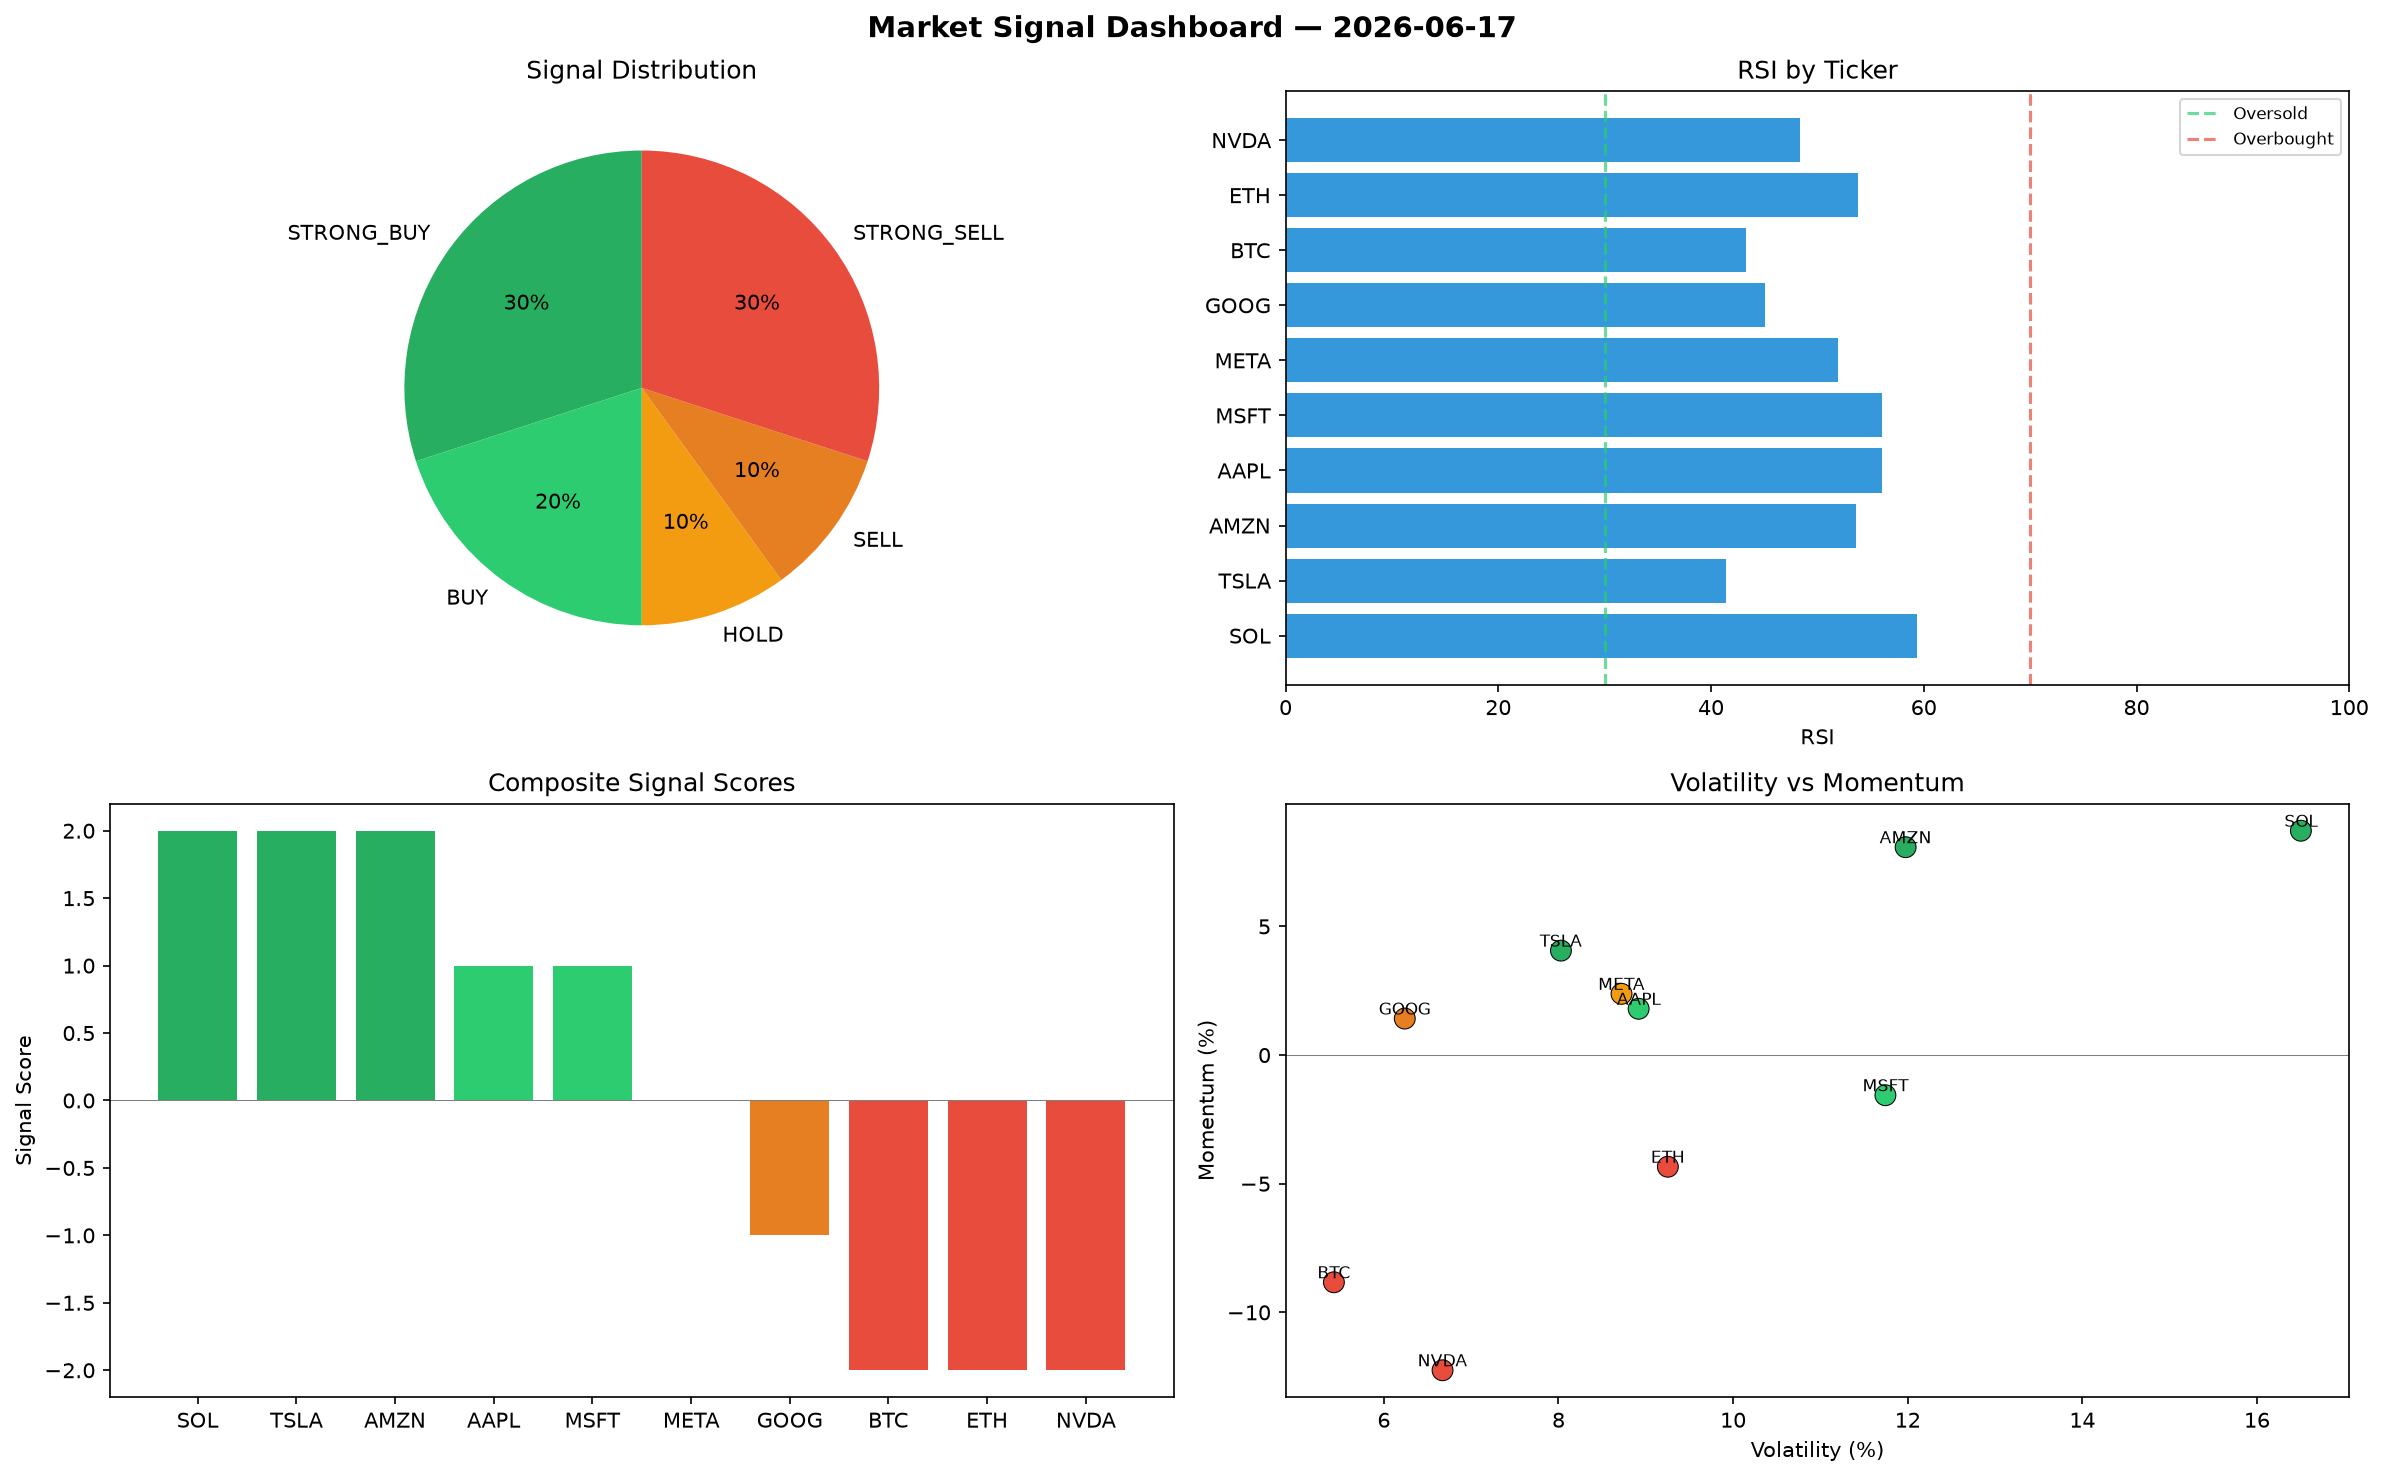
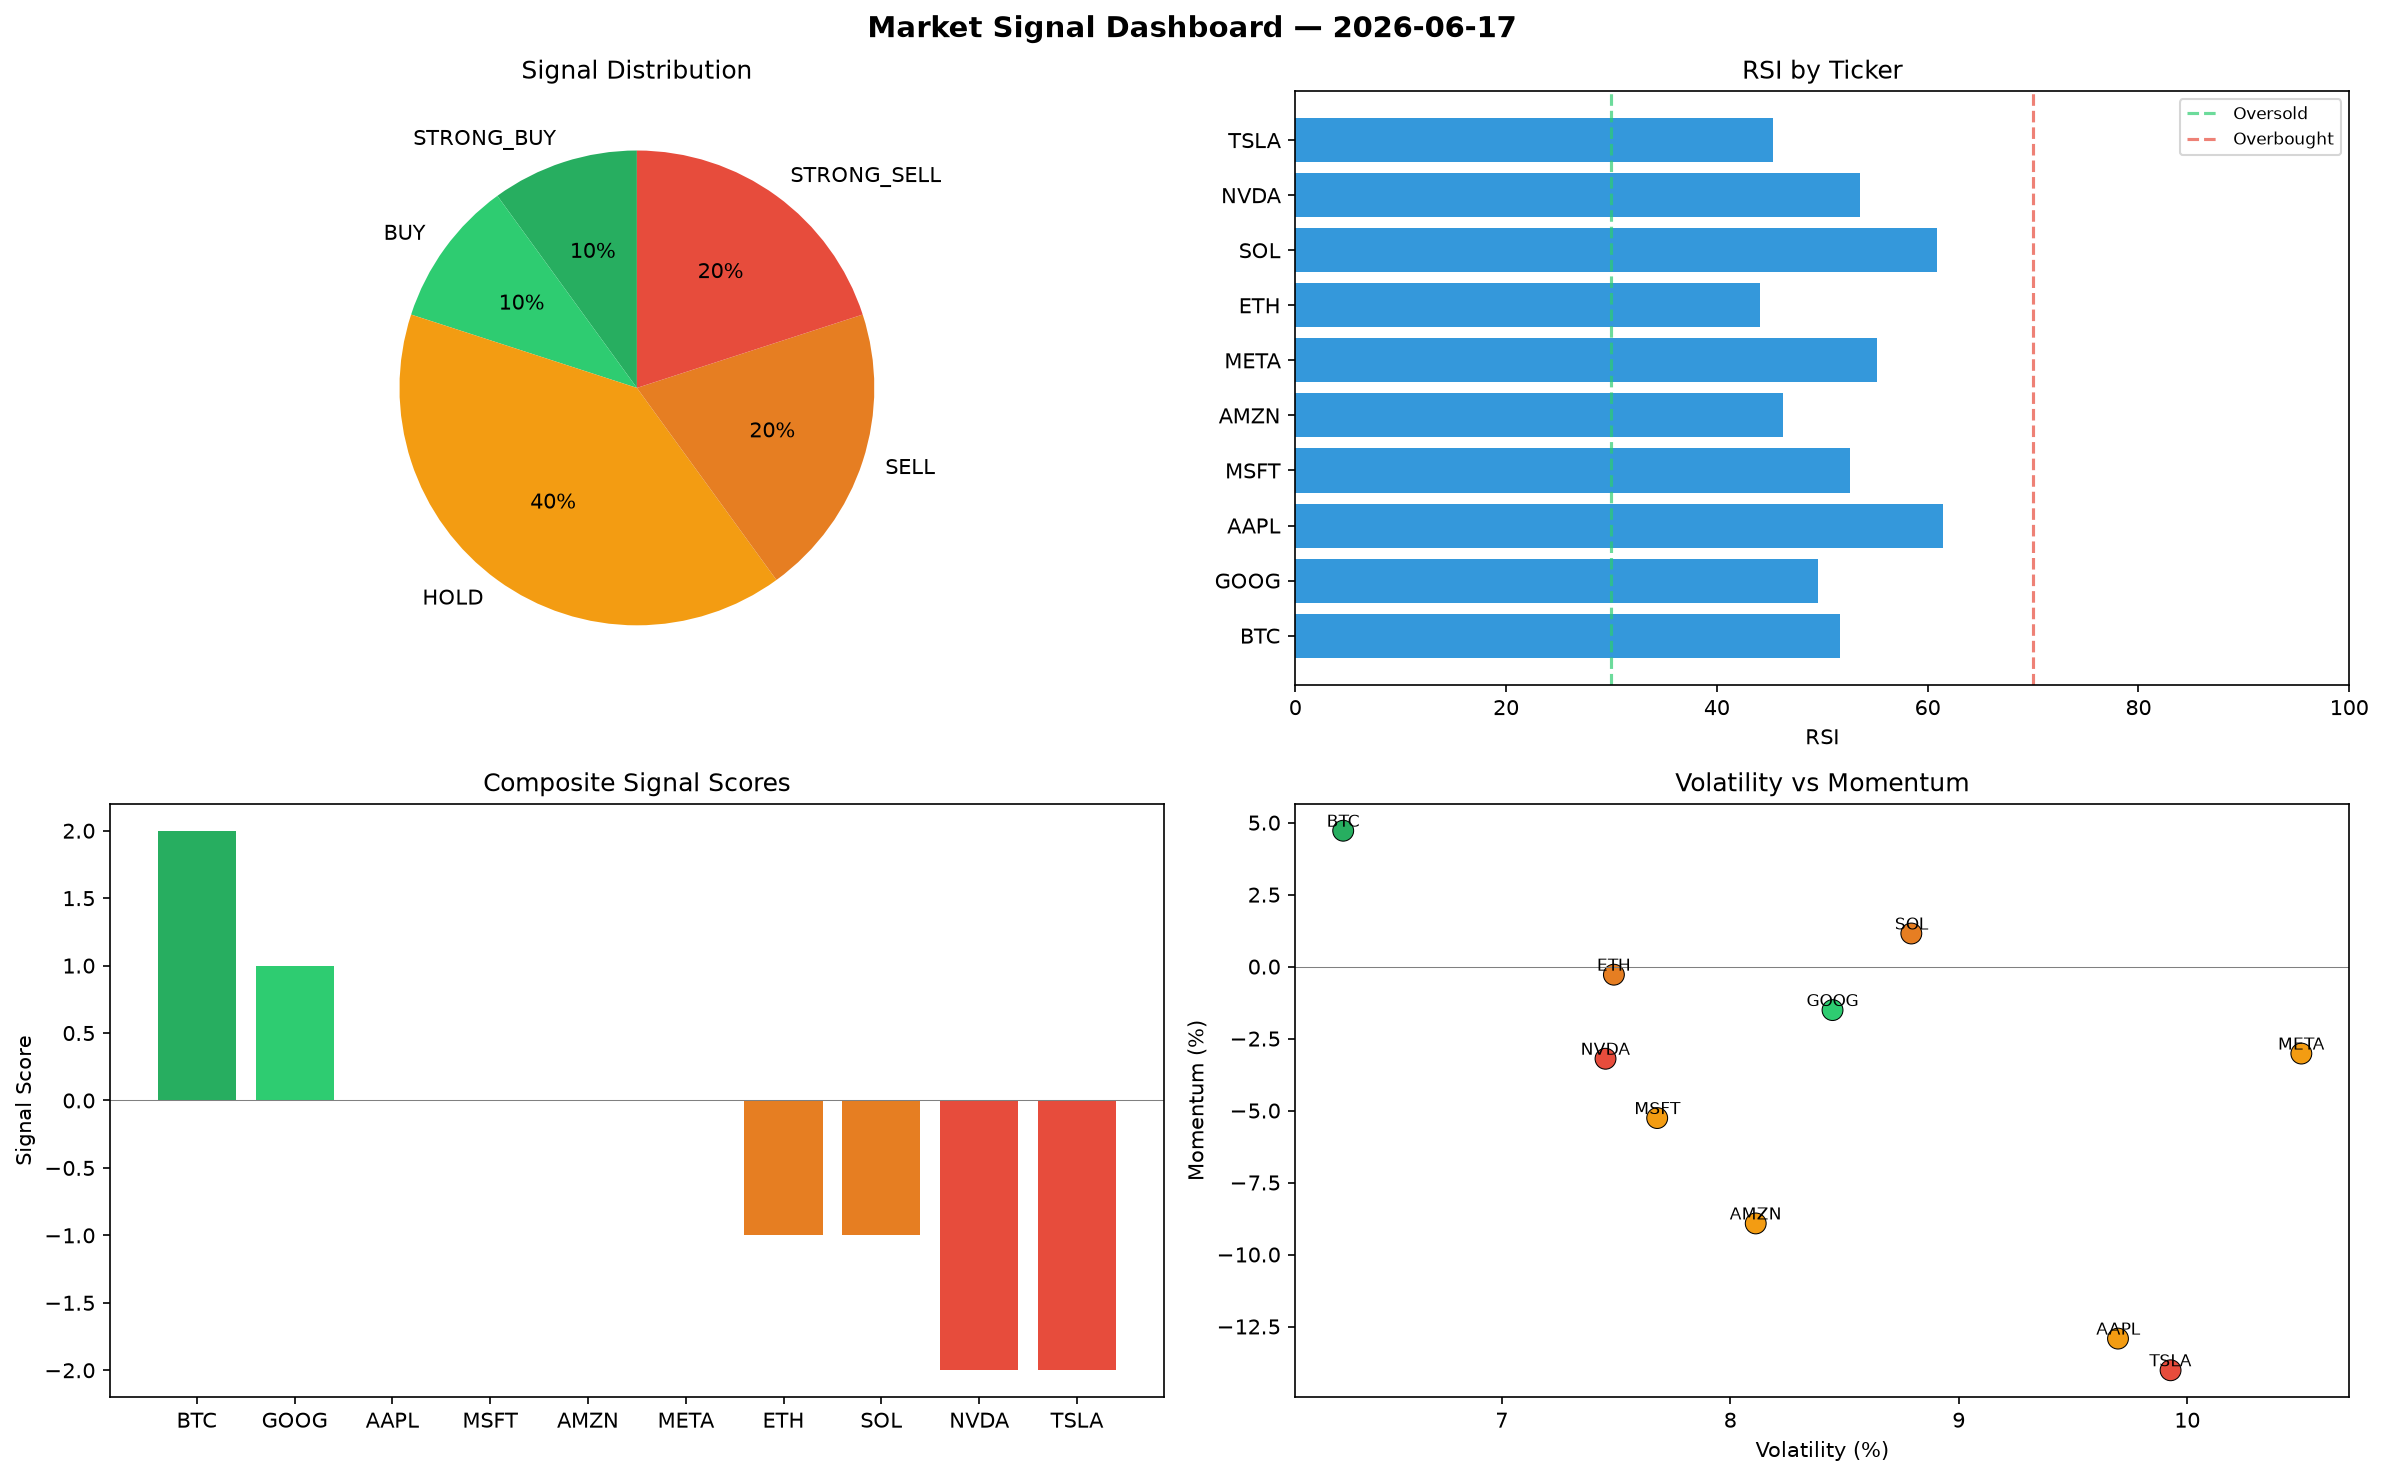
automated-bots: market signals 2026-06-17T22:17

diff --git a/logs/2026-06-17.md b/logs/2026-06-17.md
@@ -1,6 +1,6 @@
 # Market Signal Report — 2026-06-17
 
-**Run ID:** `86b16235c4` | **Buy:** 5 | **Sell:** 4 | **Hold:** 1
+**Run ID:** `54d045c7f7` | **Buy:** 2 | **Sell:** 4 | **Hold:** 4
 
 ![Dashboard](2026-06-17_dashboard.png)
 
@@ -8,28 +8,28 @@
 
 | Ticker | Price | Signal | Score | RSI | Momentum | Confidence |
 |--------|-------|--------|-------|-----|----------|------------|
-| SOL | $5332.72 | **STRONG_BUY** | 2 | 59.32 | 0.0872 | 0.5 |
-| TSLA | $2506.14 | **STRONG_BUY** | 2 | 41.39 | 0.0406 | 0.5 |
-| AMZN | $4673.76 | **STRONG_BUY** | 2 | 53.61 | 0.0808 | 0.5 |
-| AAPL | $3064.97 | **BUY** | 1 | 56.09 | 0.018 | 0.25 |
-| MSFT | $2948.56 | **BUY** | 1 | 56.03 | -0.0156 | 0.25 |
-| META | $4344.21 | **HOLD** | 0 | 51.93 | 0.0238 | 0.0 |
-| GOOG | $3228.26 | **SELL** | -1 | 45.03 | 0.0142 | 0.25 |
-| BTC | $2072.45 | **STRONG_SELL** | -2 | 43.25 | -0.0883 | 0.5 |
-| ETH | $848.21 | **STRONG_SELL** | -2 | 53.84 | -0.0434 | 0.5 |
-| NVDA | $2311.47 | **STRONG_SELL** | -2 | 48.33 | -0.1225 | 0.5 |
+| BTC | $1863.63 | **STRONG_BUY** | 2 | 51.7 | 0.0472 | 0.5 |
+| GOOG | $1218.36 | **BUY** | 1 | 49.64 | -0.0151 | 0.25 |
+| AAPL | $3975.64 | **HOLD** | 0 | 61.42 | -0.1292 | 0.0 |
+| MSFT | $1900.01 | **HOLD** | 0 | 52.65 | -0.0526 | 0.0 |
+| AMZN | $1113.38 | **HOLD** | 0 | 46.29 | -0.0892 | 0.0 |
+| META | $2248.81 | **HOLD** | 0 | 55.15 | -0.0302 | 0.0 |
+| ETH | $1739.48 | **SELL** | -1 | 44.09 | -0.0028 | 0.25 |
+| SOL | $1928.92 | **SELL** | -1 | 60.87 | 0.0115 | 0.25 |
+| NVDA | $4652.84 | **STRONG_SELL** | -2 | 53.57 | -0.032 | 0.5 |
+| TSLA | $903.6 | **STRONG_SELL** | -2 | 45.35 | -0.1402 | 0.5 |
 
 ## Delta vs Yesterday
 
 | Ticker | Today | Yesterday | Price Change | Signal Changed |
 |--------|-------|-----------|-------------|----------------|
-| SOL | STRONG_BUY | STRONG_SELL | 📈 172.97% | ⚠ YES |
-| TSLA | STRONG_BUY | HOLD | 📈 373.46% | ⚠ YES |
-| AMZN | STRONG_BUY | STRONG_BUY | 📉 -1.35% | — |
-| AAPL | BUY | STRONG_SELL | 📈 6.12% | ⚠ YES |
-| MSFT | BUY | BUY | 📈 22.98% | — |
-| META | HOLD | STRONG_SELL | 📈 68.59% | ⚠ YES |
-| GOOG | SELL | STRONG_BUY | 📉 -22.49% | ⚠ YES |
-| BTC | STRONG_SELL | STRONG_BUY | 📈 15.89% | ⚠ YES |
-| ETH | STRONG_SELL | HOLD | 📉 -71.75% | ⚠ YES |
-| NVDA | STRONG_SELL | BUY | 📉 -30.42% | ⚠ YES |
+| BTC | STRONG_BUY | STRONG_BUY | 📈 4.22% | — |
+| GOOG | BUY | STRONG_BUY | 📉 -70.75% | ⚠ YES |
+| AAPL | HOLD | STRONG_SELL | 📈 37.65% | ⚠ YES |
+| MSFT | HOLD | BUY | 📉 -20.75% | ⚠ YES |
+| AMZN | HOLD | STRONG_BUY | 📉 -76.5% | ⚠ YES |
+| META | HOLD | STRONG_SELL | 📉 -12.73% | ⚠ YES |
+| ETH | SELL | HOLD | 📉 -42.06% | ⚠ YES |
+| SOL | SELL | STRONG_SELL | 📉 -1.26% | ⚠ YES |
+| NVDA | STRONG_SELL | BUY | 📈 40.07% | ⚠ YES |
+| TSLA | STRONG_SELL | HOLD | 📈 70.71% | ⚠ YES |
